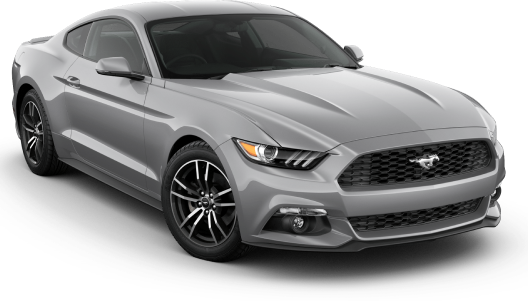
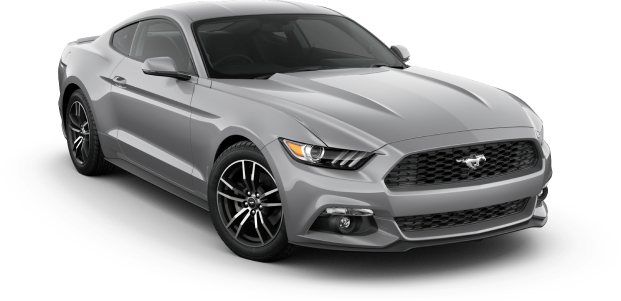
add section buyback

diff --git a/index.html b/index.html
@@ -70,12 +70,12 @@
                 </div>
             </div>
         </section>
-        <!--   benefits-->
+        <!--benefits-->
         <section class="benefits">
             <div class="container">
                 <h2 class="title">ПОЧЕМУ CARPROFIT?</h2>
                 <div class="benefits__inner">
-                    <img class="benefits__img" src="/images/mustang1.png" alt="car">
+                    <img class="benefits__img" src="/images/mustang.png" alt="car">
                     <div class="benefits__content">
                         <ol class="benefits__list">
                             <li class="benefits__item">
@@ -116,7 +116,38 @@
                         </ol>
                     </div>
                 </div>
-
+            </div>
+        </section>
+        <!--buyback-->
+        <section class="buyback">
+            <div class="container">
+                <div class="buyback__inner">
+                    <h2 class="title buyback__title">МЫ ВЫКУПАЕМ</h2>
+                    <ul class="buyback__list">
+                        <li class="buyback__item">
+                            <div class="buyback__item-images">
+                                <img src="./images/svg/ic-car1.svg" alt="ic-car1">
+                            </div>
+                            <p class="buyback__item-title">автомобили любой ценовой категории</p>
+                            <p class="buyback__item-text">бюджетные, стандартные или премиум класса</p>
+                        </li>
+                        <li class="buyback__item">
+                            <div class="buyback__item-images">
+                                <img src="./images/svg/ic-car2.svg" alt="ic-car1">
+                            </div>
+                            <p class="buyback__item-title">автомобили любой степени износа</p>
+                            <p class="buyback__item-text">от идеального состояния до аварийного: битые и не на ходу </p>
+                        </li>
+                        <li class="buyback__item">
+                            <div class="buyback__item-images">
+                                <img src="./images/svg/ic-car3.svg" alt="ic-car1">
+                            </div>
+                            <p class="buyback__item-title">автомобили с разными правами долга</p>
+                            <p class="buyback__item-text">кредитные, находящиеся в ломбарде или в залоге у банка</p>
+                        </li>
+                    </ul>
+                    <img class="buyback__images" src="./images/car.png" alt="car" >
+                </div>
             </div>
         </section>
     </div>
